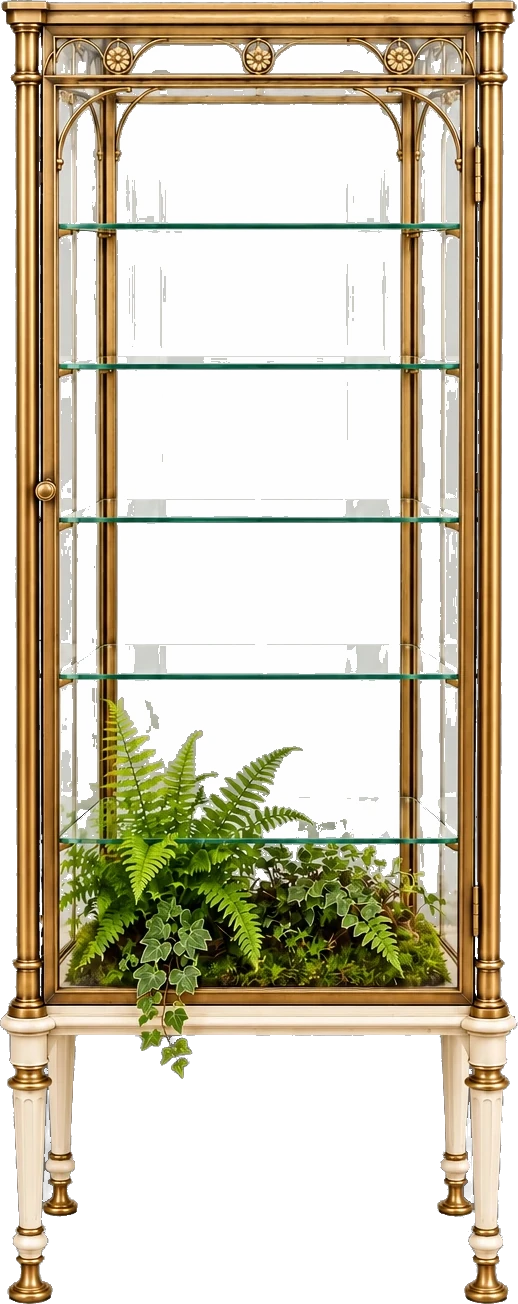
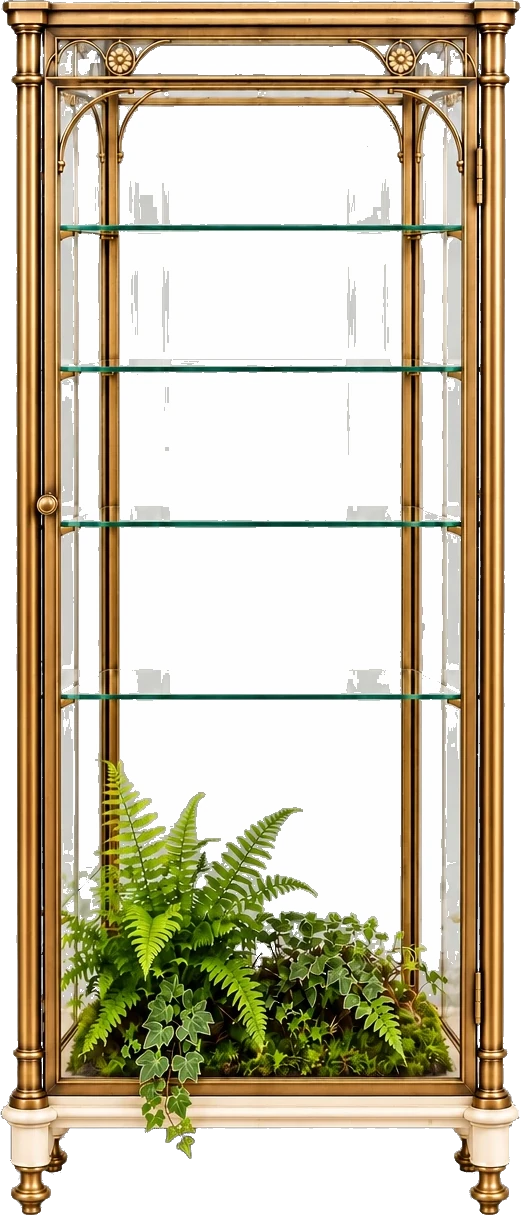
A Lady's Conservatory: Efeu wandert aufs Anbau-Regal, beide Regale mit einer gemeinsamen Zwischenwand, neue Vitrine mit kurzen Füßen (1.86.3)

diff --git a/index.html b/index.html
@@ -1327,9 +1327,10 @@ html.theme-retreat .tb-spine:first-child::after{
   content:'Platzhalter – neues Design folgt'; position:absolute; left:50%; top:46%; transform:translate(-50%, -50%) rotate(-14deg); z-index:6; pointer-events:none;
   width:max-content; max-width:92%; text-align:center; white-space:normal; line-height:1.15;
   font:700 13px/1.15 Inter, sans-serif; letter-spacing:0.02em; text-transform:uppercase; color:#ff3b30; text-shadow:0 0 3px rgba(255,255,255,0.85), 0 0 1px #fff; }
-html.theme-retreat .vitrine-img{ background-image:url(img/rt/vitrine.webp); aspect-ratio:518/1304; }
-html.theme-retreat .lib-row .vitrine-img{ width:calc(var(--sw) * 0.76) !important; }
+html.theme-retreat .vitrine-img{ background-image:url(img/rt/vitrine.webp); aspect-ratio:521/1215; }
+html.theme-retreat .lib-row .vitrine-img{ width:calc(var(--sw) * 0.85) !important; } /* 1.86.3: the cabinet with short feet, almost as high as the shelf */
 html.theme-retreat .club-plaque{ left:31.7%; top:91.6%; width:44%; height:2.5%; } /* on the cream plinth (1.86.2) */
+html.theme-retreat .shelf-narrow + .shelf-img .club-plaque{ left:28%; } /* the bookcase without ivy is symmetric (1.86.3) */
 /* the library stands in the conservatory (1.86.2, img/rt/conservatory.webp = „Gewächshaus 4“, 1536×1024): the cream wall
    (13–62 % of the picture) behind the bookcases, the floor line (86 %) at their feet; scrolling right leads to the open doors
    into the forest, so the row is as wide as the picture */
@@ -1802,7 +1803,7 @@ html.theme-retreat .shelf-orchid{ position:absolute; left:0; bottom:-7%; height:
 
 <script>
 /* Bump on every published update, so it's visible at a glance whether the newest version is loaded. */
-const APP_VERSION = '1.86.2';
+const APP_VERSION = '1.86.3';
 /* Design (since 1.80.0, see the small script in <head>): in "Business" (BIZ) the gold paper icons are swapped for plain line
    icons (img/icons-rl/*.svg) wherever they appear – also in everything drawn later – so the rest of the code stays as it is. */
 // A Lady's Conservatory (1.84.0, named so since 1.86.1; key 'retreat' and RETREAT stay): light, cream and forest green; until its own pictures come it uses those of A Gentleman's Study (with the
@@ -6182,7 +6183,10 @@ const SHELVES = {
   rl:RETREAT
     // A Lady's Conservatory (1.86.2): its own cream bookcase with sage back and ivy on the left (img/rt/shelf, measured)
     ? { img:'rt/shelf', aspect:681 / 1379, roof:1.8, x:[16.7, 90.6], rows:[[9.8, 25.2], [27, 41.3], [42.9, 57.5], [58.8, 73.3], [75, 89.6]] }
-    : { img:'rl/shelf', aspect:552 / 1254, roof:1.8, x:[9.6, 90.4], rows:[[5, 21.3], [23, 38.4], [40, 56.3], [58, 72.8], [75, 87.3]] }
+    : { img:'rl/shelf', aspect:552 / 1254, roof:1.8, x:[9.6, 90.4], rows:[[5, 21.3], [23, 38.4], [40, 56.3], [58, 72.8], [75, 87.3]] },
+  // A Lady's Conservatory with the narrow bookcase (1.86.3): the ivy moves to the narrow one, the big one is mirrored from its
+  // right half (no ivy), and both share one middle wall (the left post of this one)
+  rtPlain:{ img:'rt/shelf-plain', aspect:630 / 1379, roof:1.8, x:[10, 89.8], rows:[[9.8, 25.2], [27, 41.3], [42.9, 57.5], [58.8, 73.3], [75, 89.6]] }
 };
 // the cobwebs stay for the first two active days (since 1.83.0; before: one), from the 3rd the shelf is clean, ivy from level 3
 /* The narrow bookcase (1.81.0): as soon as the diaries no longer fit into the top compartment, a narrow bookcase of the same
@@ -6194,8 +6198,7 @@ const NARROW = {
   clean:{ img:'shelf-slim-clean-narrow', aspect:219 / 667, x:[24, 76.7], k:0.646, ov:0.03 },
   ivy:{ img:'shelf-slim-clean-narrow', aspect:219 / 667, x:[24, 76.7], k:219 / 357, ov:0.03 }, // the ivy only grows on the wide shelf (1.83.0)
   rl:RETREAT
-    // A Lady's Conservatory (1.86.2): mirrored from the right half of its bookcase (no ivy); slides under the ivy margin of the big one
-    ? { img:'rt/shelf-narrow', aspect:400 / 1379, x:[16, 84], k:400 / 681, ov:0.12 }
+    ? { img:'rt/shelf-narrow', aspect:359 / 1379, x:[31.8, 93.6], k:359 / 630, ov:41 / 630 } // 1.86.3: with the ivy, no right post (shares the big one's)
     : { img:'rl/shelf-narrow', aspect:352 / 1254, x:[15.1, 84.9], k:0.6377, ov:0.082 }
 };
 const shelfKey = ()=>BIZ ? 'rl' : appActiveDays() < 3 ? 'dusty' : appLevel() <= 2 ? 'clean' : 'ivy';
@@ -6223,7 +6226,7 @@ function isEasterTime(now){
 const RL_DOG_READY = true; // true as soon as img/rl/dog.webp and img/rl/dog-lying.webp are there
 function tbRenderLibrary(){
   const d = t();
-  const SH = shelfNow(); SHELF_X = SH.x; SHELF_ROWS = SH.rows;
+  let SH = shelfNow(); SHELF_X = SH.x; SHELF_ROWS = SH.rows;
   // with the cabinet (level 6) the diaries of earlier years stand in its top compartment, if there are several (1.78.2)
   const allKeys = tbBookKeys(), thisY = tbCurrentYearStr();
   const oldKeys = appLevel() >= 6 ? allKeys.filter(k=>tbBookYear(k) < thisY) : [];
@@ -6255,6 +6258,7 @@ function tbRenderLibrary(){
   let bookRows = packRows(books.map(b=>({ ...b, book:true, g:0.7 })), 0);
   // too many diaries for the top compartment: they all move into the narrow bookcase on the left
   const NS = NARROW[shelfKey()], NAR = bookRows.length > 1;
+  if(RETREAT && NAR){ SH = SHELVES.rtPlain; SHELF_X = SH.x; } // A Lady's Conservatory: the big one without ivy, one shared middle wall (1.86.3)
   const nCap = i=>{ const r = SHELF_ROWS[Math.min(i, SHELF_ROWS.length - 1)]; return (NS.x[1] - NS.x[0]) / (r[1] - r[0]) * 100 * NS.aspect; };
   let narrowRows = [];
   if(NAR){ narrowRows = packRows(books.map(b=>({ ...b, book:true, g:0.7 })), 0, 0, false, nCap); bookRows = [];
@@ -6310,9 +6314,9 @@ function tbRenderLibrary(){
   let vitHtml = '';
   if(VIT){
     // A Lady's Conservatory (1.86.2): a brass-and-glass plant cabinet, four glass shelves above the ferns
-    const VX = RETREAT ? [13, 87] : BIZ ? [13.5, 86.5] : [26, 74], VR0 = RETREAT ? [[18.5, 27.6], [29, 39.5], [41, 51.5], [53, 64.2]] : BIZ ? [[5.5, 24.6], [26, 44.6], [46, 64.6], [66, 86.6]] : [[10, 24.5], [26, 39], [41, 52.5], [54, 67], [69, 80]];
+    const VX = RETREAT ? [13, 87] : BIZ ? [13.5, 86.5] : [26, 74], VR0 = RETREAT ? [[10, 18.4], [19.5, 30.1], [31.2, 42.9], [44, 57.1]] : BIZ ? [[5.5, 24.6], [26, 44.6], [46, 64.6], [66, 86.6]] : [[10, 24.5], [26, 39], [41, 52.5], [54, 67], [69, 80]];
     const VR = useOld ? VR0.slice(1) : VR0; // the top compartment then holds the old diaries
-    const cap = i=>(VX[1] - VX[0]) / (VR[i][1] - VR[i][0]) * 100 * (RETREAT ? 518 / 1304 : BIZ ? 0.348 : 0.493) - 10; // the picture is about 0.66 times as wide as high (A Gentleman's Study: 0.348)
+    const cap = i=>(VX[1] - VX[0]) / (VR[i][1] - VR[i][0]) * 100 * (RETREAT ? 521 / 1215 : BIZ ? 0.348 : 0.493) - 10; // the picture is about 0.66 times as wide as high (A Gentleman's Study: 0.348)
     const items = feast.map(x=>{ const h = 92 * (x.scale || 0.8); return { x, h, w:h * (x.aspect || 0.9) + 1 }; });
     let kk = 1, rows = [];
     for(;;){ rows = []; let cur = [], used = 0;

diff --git a/CLAUDE.md b/CLAUDE.md
@@ -125,7 +125,7 @@ Der Nutzer ist kein Entwickler. Erkläre Schritte einfach und auf Deutsch.
 - Veröffentlicht über **GitHub Pages** aus diesem Repository (Branch `main`, Ordner `/`):
   https://k9vk58y99f-max.github.io/k9vk58y99f-max.github.io-ewolfe-app-/
 - Ein Commit + Push auf `main` ist die Veröffentlichung; nach 1–2 Minuten ist es live.
-- Bei jeder Änderung `APP_VERSION` erhöhen (aktuell `1.86.2`) und `APP_BUILD` anpassen.
+- Bei jeder Änderung `APP_VERSION` erhöhen (aktuell `1.86.3`) und `APP_BUILD` anpassen.
   Die Version steht unten in der App.
 
 ## Neu seit 1.55.0 (iPad, Wischen, Tagebuch, Sticker, Impulskarten)
@@ -380,6 +380,11 @@ Vor jedem Push: Syntax prüfen und die betroffenen Abläufe testen. Daten des Nu
   cremefarbenen Sockel. Hintergrund der Bibliothek `rt/conservatory.webp` („Gewächshaus 4“): `.lib-row` ist so breit wie das Bild
   (4,78 `--sw`), Wand hinter den Möbeln, Bodenlinie an ihren Füßen, rechts scrollt man zu den offenen Türen in den Wald.
   Freistell-Skript und Bilder: Sammelordner „Fertige Bilder/Gewächshaus (1.86.2)“. Trophäen sind noch die von A Gentleman's Study.
+- **Seit 1.86.3:** Steht das Anbau-Regal da, wandert der Efeu dorthin: `rt/shelf-narrow` = linker Teil des Efeu-Regals (bis x 300)
+  plus ein Stück rechts davon ohne eigenen rechten Pfosten (Füßchen dort entfernt); das große Regal wird `SHELVES.rtPlain`
+  (`rt/shelf-plain`, aus seiner rechten Hälfte gespiegelt, ohne Efeu, 630×1379, `x:[10, 89.8]`). Beide teilen sich eine
+  Zwischenwand (den linken Pfosten des großen), `ov` 41/630. Umschalten in `tbRenderLibrary` (`if(RETREAT && NAR) SH = SHELVES.rtPlain`).
+  Neue Vitrine „Vitrine 3 (kurze Füße)“: 521×1215, Glasböden bei 18,7/30,3/43,1/57,3 %, Fächer `VR0`, Breite `--sw`×0,85.
 - **Seit 1.86.0 neue Richtung „Gewächshaus am Wald“** (Nutzer: edel, vintage, verziert und schlicht, Pflanzen, ladylike in Grün
   zwischen Wellness und Waldbaden, mehr Weiß/Creme, Bibliothek in einem Gewächshaus, das sich in den Wald öffnet; Lieblingsstück
   sechseckiges eingelegtes Beistelltischchen). Farben Variante A „Gewächshaus am Morgen“: Grund Creme #f7f3ea (nach unten leicht
